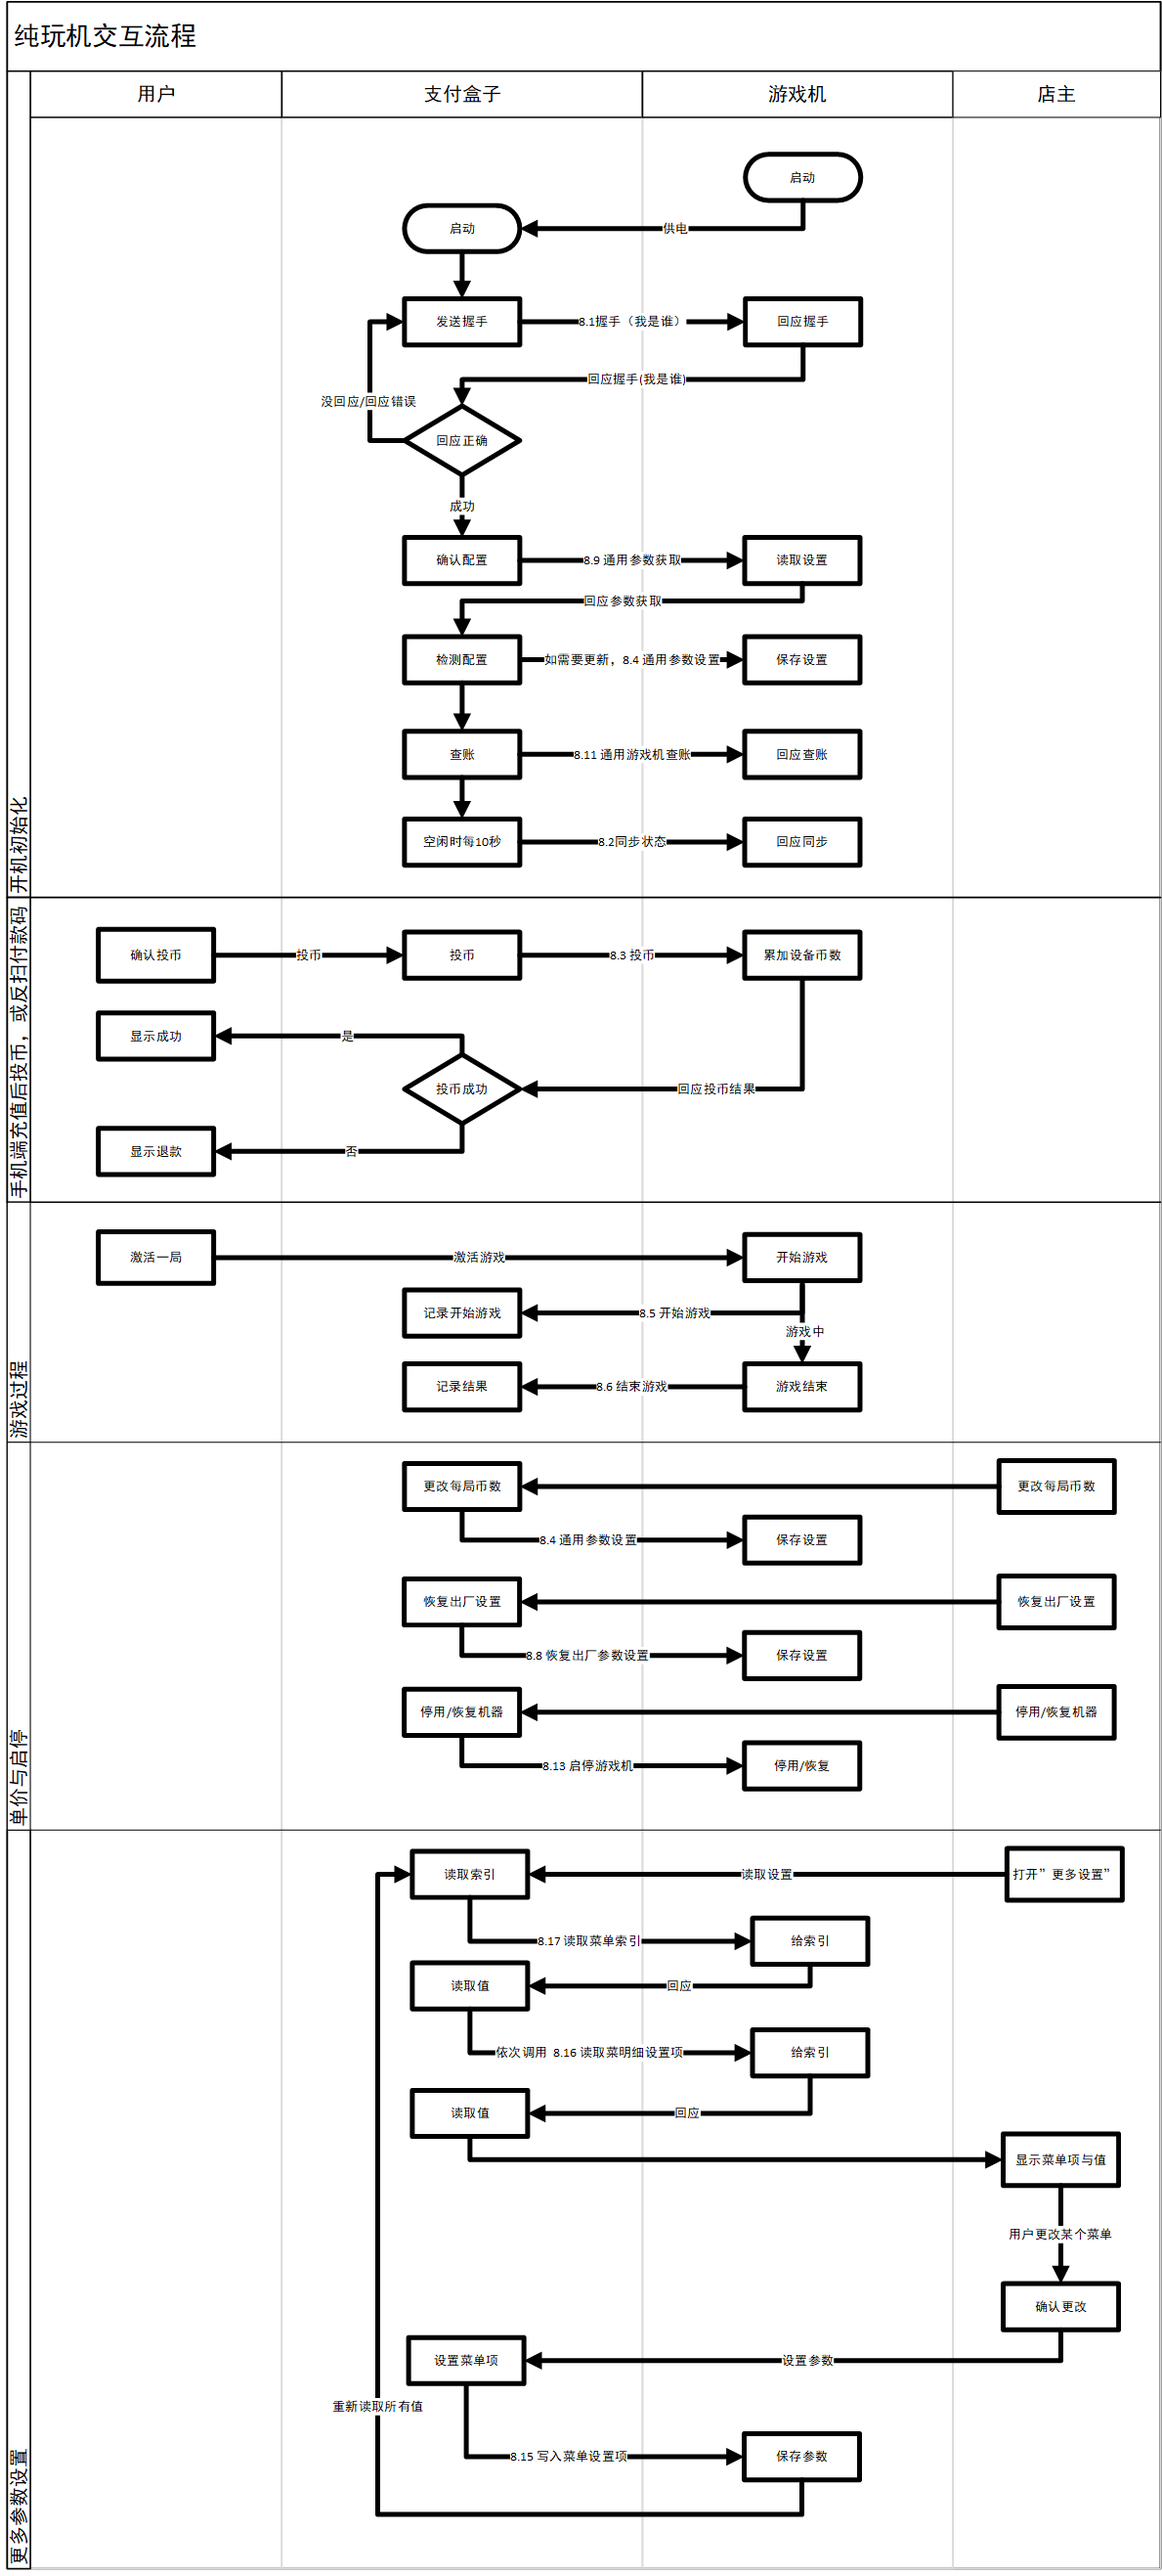
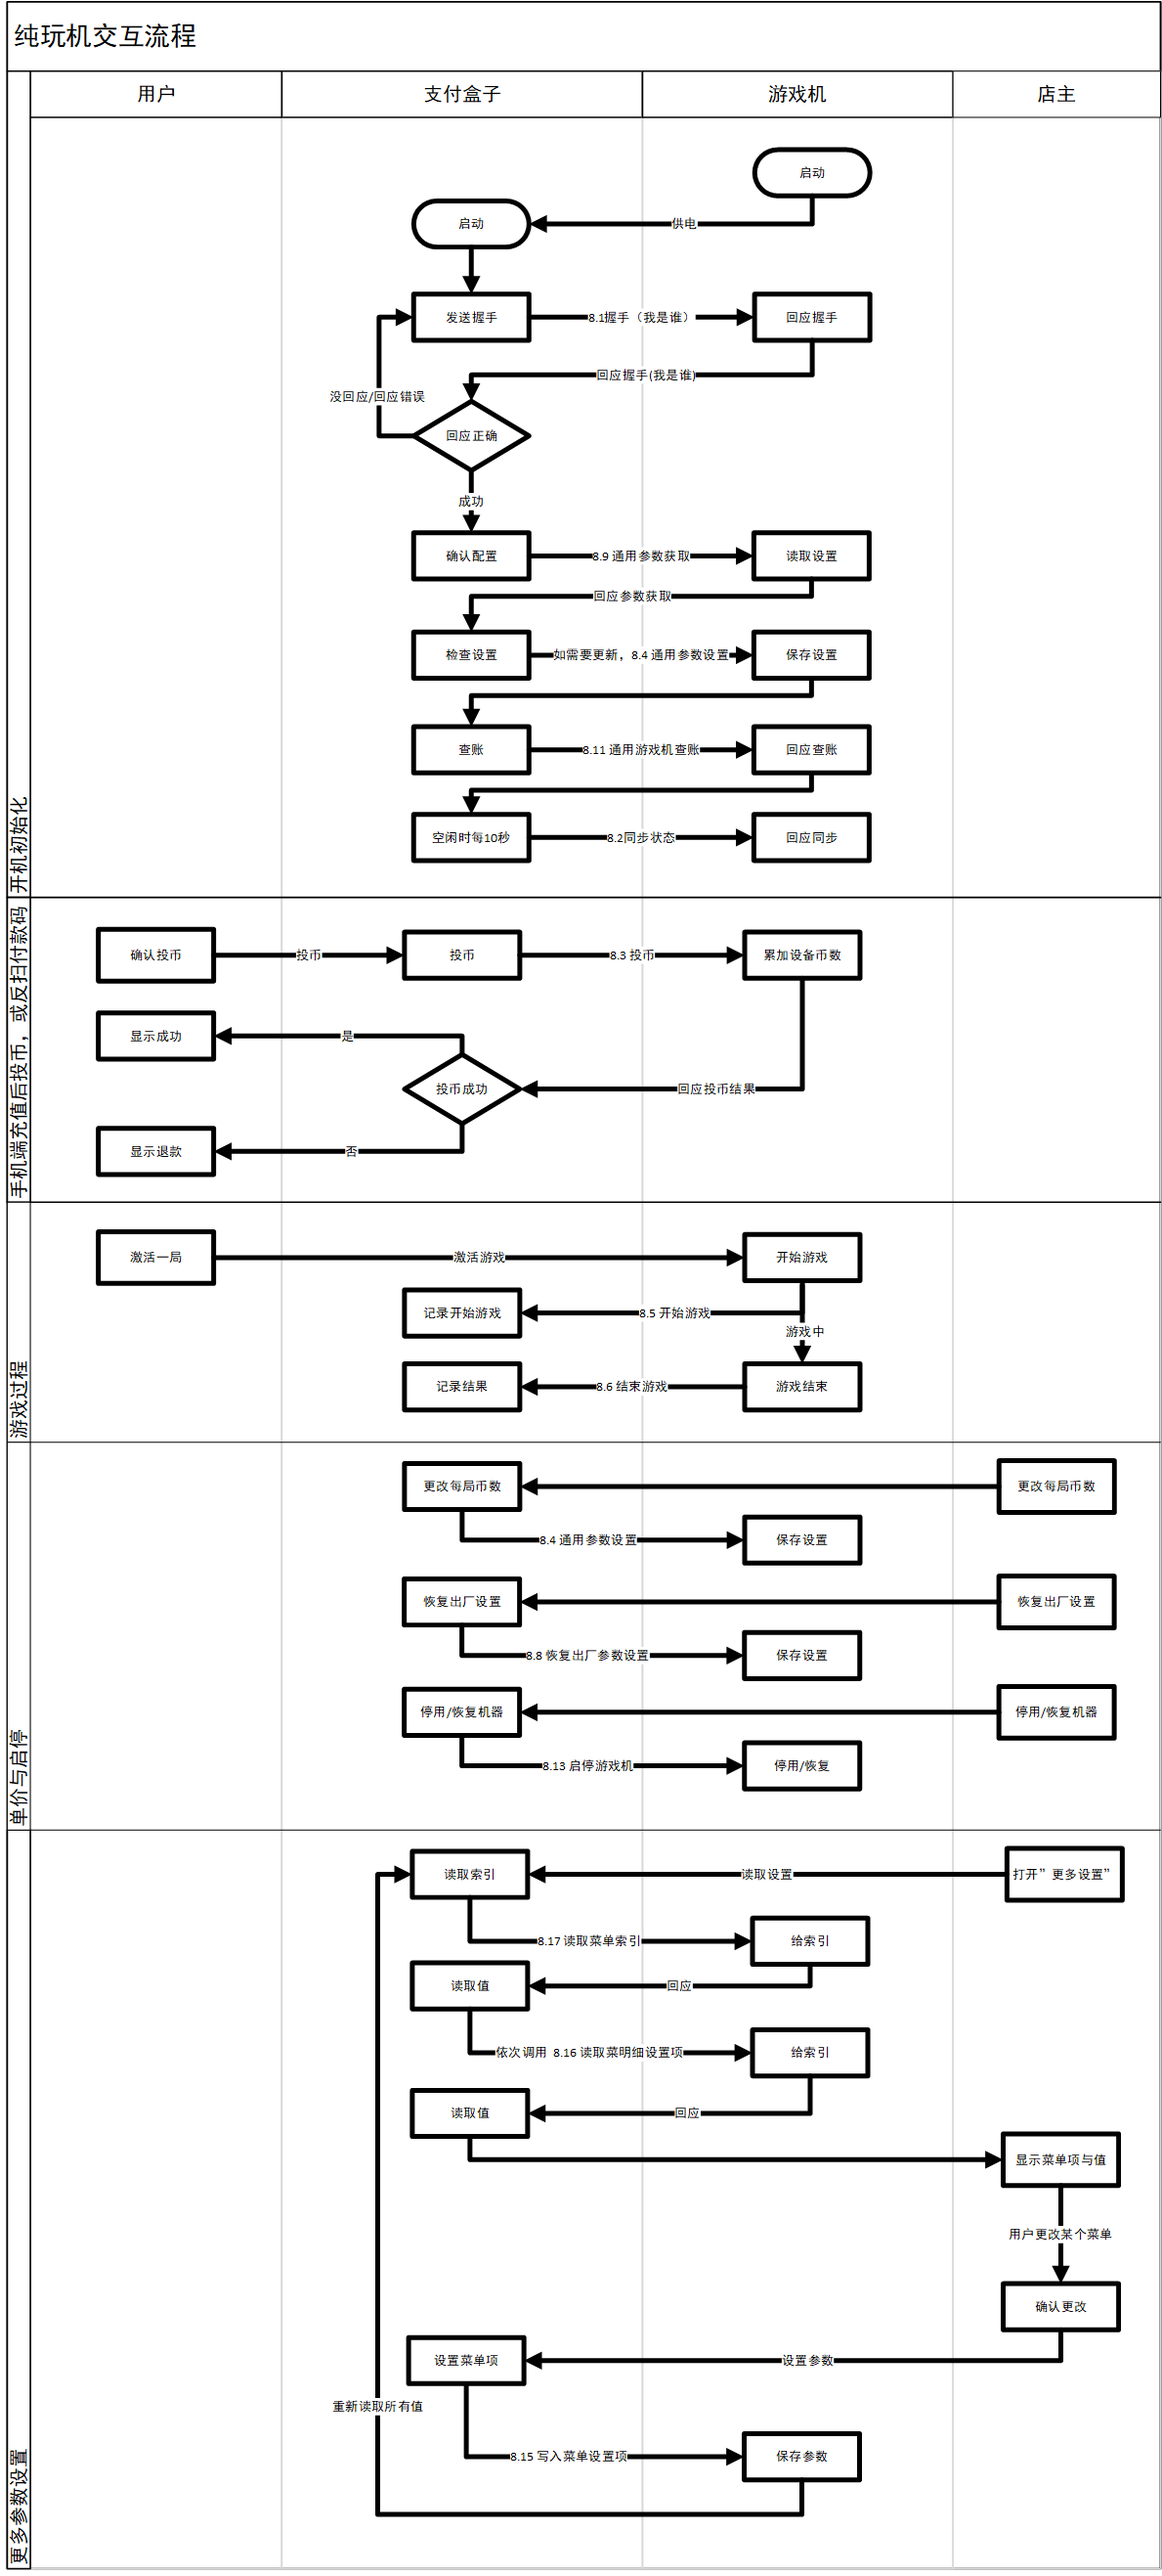
微调初始场景协议

Changed region(s): [[0.3112, 0.0311, 0.7468, 0.3424]]

diff --git a/README.md b/README.md
@@ -148,6 +148,7 @@ V1.14|20181023|Benny|添加菜单设置接口，废弃扩展参数设置
 V1.16|20181031|Benny|添加菜单设置接口，修改握手接口
 V1.18|20181120|Benny|添加菜单索引获取接口,考虑116版本的设计需要厂商在后台进行菜单维护并且需要匹配对应版本,因此将菜单流程进行优化尽量避免出错减少运维操作复杂度
 V1.19|20181123|Benny|获取游戏二维码时得到商品图片的URL
+V1.20|20190415|Benny|微调初始流程
 
 <A NAME="P5"></A>
 
@@ -317,7 +318,7 @@ EF37|0000|0301|001F|00000001 00000001 FA00FCCDA57D8990FA00FCCDA57D8990 0101|4849
 
 应答参数|长度|说明
 ---|---|---
-协议版本|4Byte|当前使用的本协议版本如：119，100=V1.0，101=V1.01.需要外接设备根据此数来适配不同版本的协议，当前版本说明一般注明在文档第四章
+协议版本|4Byte|当前使用的本协议版本如：120，100=V1.0，101=V1.01.需要外接设备根据此数来适配不同版本的协议，当前版本说明一般注明在文档第四章
 产品标识|4Byte|产品编号，第十二章名录，如0x00010001，用于标识某个厂商的某个产品
 设备唯一ID|16Byte|用于区分每一台设备，厂商需要保证唯一
 总P位数|1Byte|此游戏机总共P位数，售货机为售货格子数
@@ -458,23 +459,6 @@ EF37|0000|0301|001F|00000001 00000001 FA00FCCDA57D8990FA00FCCDA57D8990 0101|4849
 ### **8.7 设置游戏机扩展参数(PID=0x0107) <font color=red>v1.12后弃用</font>**
 ---
 
-数据方向:外接设备->游戏机
-
-说明：用于将非高频设置的参数进行同款游戏机复制使用。通过某台机器手动线下设置后。通过软件界面读取后批量设置到同款产品，这样可以节省重复设置的时间。设置内容由厂商自定义。扩展参数如灯光选择，音乐选择，各种爪力电压等等，默认超时2秒
-
-外接设备发送内容（DATA）如下:
-
-发送参数|长度|说明
----|---|---
-其他参数|nByte|厂商自定义内容，用于同款产品非高频设置复制
-
-游戏机回应PID=0x0187内容如下:
-
-应答参数|长度|说明
----|---|---
-结果|2Byte|0x0000=成功,其他=状态码，详见第十三章状态码
-
-举例：待完善
 
 <A NAME="P8_8"></A>
 
@@ -528,24 +512,6 @@ EF37|0000|0301|001F|00000001 00000001 FA00FCCDA57D8990FA00FCCDA57D8990 0101|4849
 ### **8.10 游戏机扩展参数获取(PID=0x010A)  <font color=red>v1.12后弃用</font>**
 ---
 
-数据方向:外接设备->游戏机
-
-说明：用于外接设备读取游戏机的通用参数，默认超时2秒
-
-外接设备发送内容（DATA）如下:
-
-发送参数|长度|说明
----|---|---
-无||
-
-游戏机回应PID=0x018A内容如下:
-
-应答参数|长度|说明
----|---|---
-状态码|2Byte|如出现故障此处非0，详见第十三章状态码，如填写状态码其他参数无效
-其他参数|nByte|厂商自定义内容，用于同款产品非高频设置复制
-
-举例：待完善
 
 <A NAME="P8_11"></A>
 
@@ -626,11 +592,6 @@ EF37|0000|0301|001F|00000001 00000001 FA00FCCDA57D8990FA00FCCDA57D8990 0101|4849
 
 ### **8.14 读取菜单设置项(PID=0x010E) <font color=red>v1.18后弃用</font>**
 ---
-
-数据方向:外接设备->游戏机
-
-说明：用于外接设备读取非通用参数的设置，用于手机远程设置参数,菜单编号由游戏机厂家在手机系统后台添加,当需要设置时,会读取所有设置到手机,手机设置完后一次设置到游戏机.
-<font color=red>此菜单项因需要在后台配置才能使用,维护复杂,因此v1.18后弃用,使用8.16和8.17替代</font>
 
 <A NAME="P8_15"></A>
 
@@ -747,60 +708,14 @@ EF37|0000|0301|001F|00000001 00000001 FA00FCCDA57D8990FA00FCCDA57D8990 0101|4849
 
 <A NAME="P9_2"></A>
 
-### **9.2 设置娃娃机参数(PID=0x0202)**
+### **9.2 设置娃娃机参数(PID=0x0202) <font color=red>v1.20后弃用,统一使用通用参数</font>**
 ---
 
-数据方向:外接设备->游戏机
-
-说明：用于远程设置礼品机参数，其中强爪力度一般会给100，如果非100是为了让强爪和弱爪不那么明显的差距。弱爪力度一般是根据娃娃的重量来估算力度的。如果需要对力度进行精准的第一，第二，第三爪力进行调节，请在机器上进行手动调节后，娃娃机根据弱爪力度整体控制。如需解决复杂爪力设置后复制到其他设备问题，请使用8.8章的扩展参数进行读取和设置进行复制。默认超时2秒
-
-外接设备发送内容（DATA）如下:
-
-发送参数|长度|说明
----|---|---
-每局币数|1Byte|0~255（枚）
-游戏时间|1Byte|1~255（秒）
-弱爪力度|1Byte|1~100 (百分比)
-强爪力度|1Byte|1~100 (百分比)
-单机中奖率-币数|2Byte|0~0xFFFF几币出奖
-单机中奖率-出奖数|2Byte|0~0xFFFF出奖数量，与上一个参数结合后既x币会中y次奖,用于在非服务端进行概率干预时游戏机自行处理中奖判断
-
-游戏机回应PID=0x0282内容如下:
-
-应答参数|长度|说明
----|---|---
-结果|2Byte|0x0000=成功,其他=状态码，详见第十三章状态码
-
-举例：待完善
 
 <A NAME="P9_3"></A>
 
-### **9.3 娃娃机参数获取(PID=0x0203)**
+### **9.3 娃娃机参数获取(PID=0x0203) <font color=red>v1.20后弃用,统一使用通用参数</font>**
 ---
-
-数据方向:外接设备->游戏机
-
-说明：用于外接设备读取娃娃机参数，默认超时2秒
-
-外接设备发送内容（DATA）如下:
-
-发送参数|长度|说明
----|---|---
-无||
-
-游戏机回应PID=0x0283内容如下:
-
-应答参数|长度|说明
----|---|---
-状态码|2Byte|如出现故障此处非0，详见第十三章状态码，如填写状态码其他参数无效
-每局币数|1Byte|0~255（枚）
-游戏时间|1Byte|1~255（秒）
-弱爪力度|1Byte|1~100 (百分比)
-强爪力度|1Byte|1~100 (百分比)
-单机中奖率-币数|2Byte|0~0xFFFF几币出奖
-单机中奖率-出奖数|2Byte|0~0xFFFF出奖数量，与上一个参数结合后既x币会中y次奖,用于在非服务端进行概率干预时游戏机自行处理中奖判断
-
-举例：待完善
 
 <A NAME="P10"></A>
 
@@ -810,54 +725,13 @@ EF37|0000|0301|001F|00000001 00000001 FA00FCCDA57D8990FA00FCCDA57D8990 0101|4849
 
 <A NAME="P10_1"></A>
 
-### **10.1 设置彩票机参数(PID=0x0301)**
+### **10.1 设置彩票机参数(PID=0x0301) <font color=red>v1.20后弃用,统一使用通用参数</font>**
 ---
-
-数据方向:外接设备->游戏机
-
-说明：用于设置彩票类设备的游戏机重要参数，默认超时2秒
-
-外接设备发送内容（DATA）如下:
-
-发送参数|长度|说明
----|---|---
-每局币数|1Byte|0~255（枚）
-返奖率-币数|2Byte|0~65535(个)
-返奖率-票数|2Byte|0~65535（票）与上一个参数合起来概率变为每xx币返奖xx票
-
-游戏机回应PID=0x0381内容如下:
-
-应答参数|长度|说明
----|---|---
-结果|2Byte|0x0000=成功,其他=状态码，详见第十三章状态码
-
-举例：待完善
 
 <A NAME="P10_2"></A>
 
-### **10.2 读取彩票机参数(PID=0x0302)**
+### **10.2 读取彩票机参数(PID=0x0302) <font color=red>v1.20后弃用,统一使用通用参数</font>**
 ---
-
-数据方向:外接设备->游戏机
-
-说明：用于读取彩票机参数，默认超时2秒
-
-外接设备发送内容（DATA）如下:
-
-发送参数|长度|说明
----|---|---
-无||
-
-游戏机回应PID=0x0382内容如下:
-
-应答参数|长度|说明
----|---|---
-状态码|2Byte|如出现故障此处非0，详见第十三章状态码，如填写状态码其他参数无效
-每局币数|1Byte|0~255（枚）
-返奖率-币数|2Byte|0~65535(个)
-返奖率-票数|2Byte|0~65535（票）与上一个参数合起来概率变为每xx币返奖xx票
-
-举例：待完善
 
 <A NAME="P11"></A>
 
@@ -941,23 +815,7 @@ EF37|0000|0301|001F|00000001 00000001 FA00FCCDA57D8990FA00FCCDA57D8990 0101|4849
 
 <A NAME="P11_4"></A>
 
-### **11.4 出货结果(保留，无需实现)**
-
-<A NAME="P11_5"></A>
-
-### **11.5 设置商品和价格(保留，无需实现)**
-
-<A NAME="P11_6"></A>
-
-### **11.6 更新库存(保留，无需实现)**
-
-<A NAME="P11_7"></A>
-
-### **11.7 设置时间(保留，无需实现)**
-
-<A NAME="P11_8"></A>
-
-### **11.8 补货开柜(保留，无需实现)** 
+### **11.4-11.8 保留指令** 
 
 <A NAME="P11_9"></A>
 
